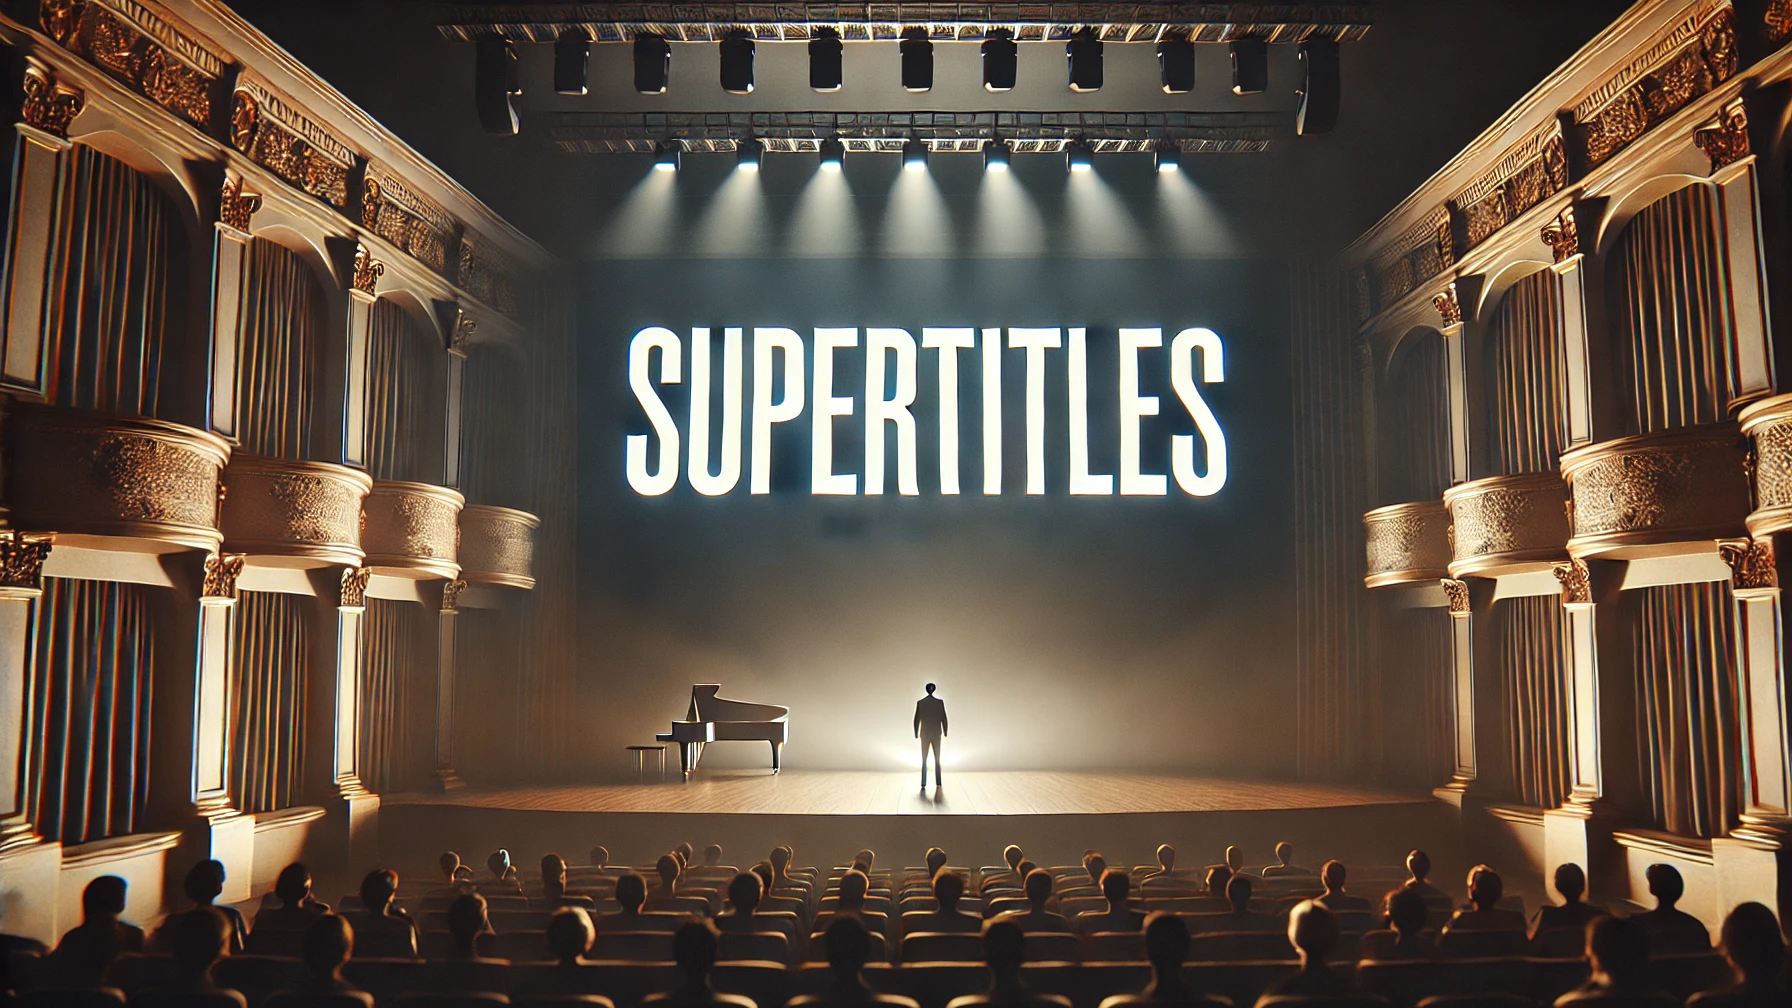
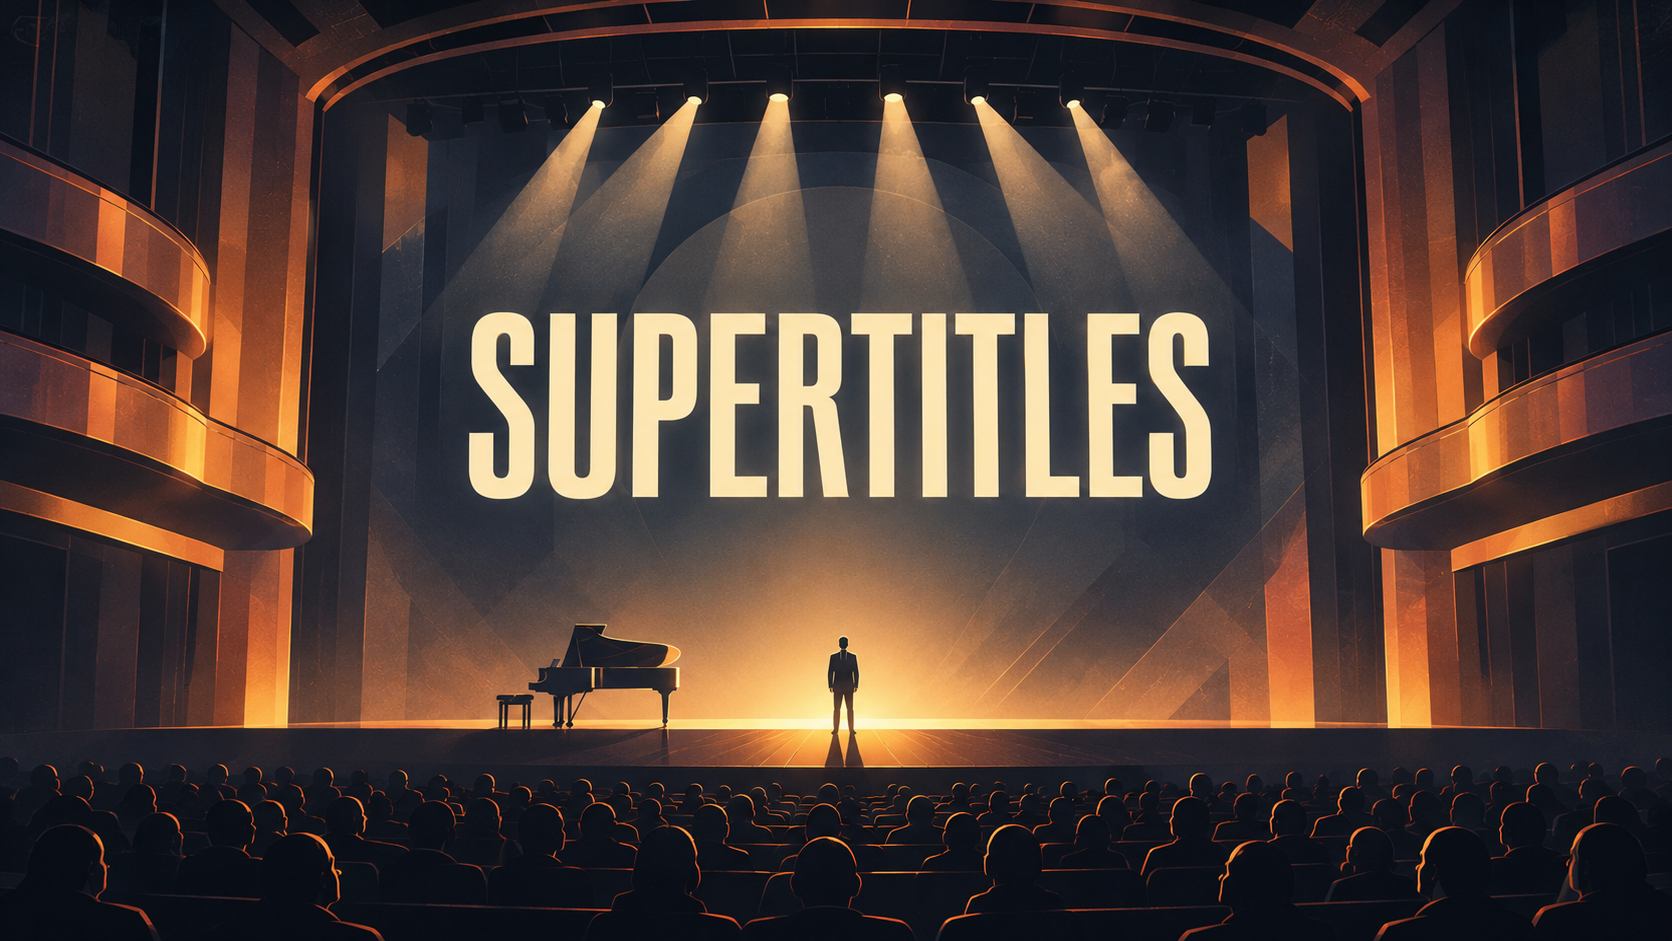
Update some images

diff --git a/index.html b/index.html
@@ -77,7 +77,7 @@
 			</div>
 			<div class="project">
 				<a href="/projects/bachelor_thesis" target="_self">
-					<img src="/assets/images/bachelor_thesis/linktypes.png" alt="Bachelor Thesis" class="project-image">
+					<img src="/assets/images/bachelor_thesis/linktypes.jpg" alt="Bachelor Thesis" class="project-image">
 					<div class="project-description">
 						<h2>Bachelor Thesis</h2>
 						<p>Analysis of Transmission Speeds Across Different Link Types</p>

diff --git a/projects/bachelor_thesis.html b/projects/bachelor_thesis.html
@@ -48,7 +48,7 @@
 			</center>
 			
 			<div class="projectPageImage">
-				<img src="/assets/images/bachelor_thesis/linktypes.png" alt="Bachelor Thesis">
+				<img src="/assets/images/bachelor_thesis/linktypes.jpg" alt="Bachelor Thesis">
 			</div>
 
 		</div>
